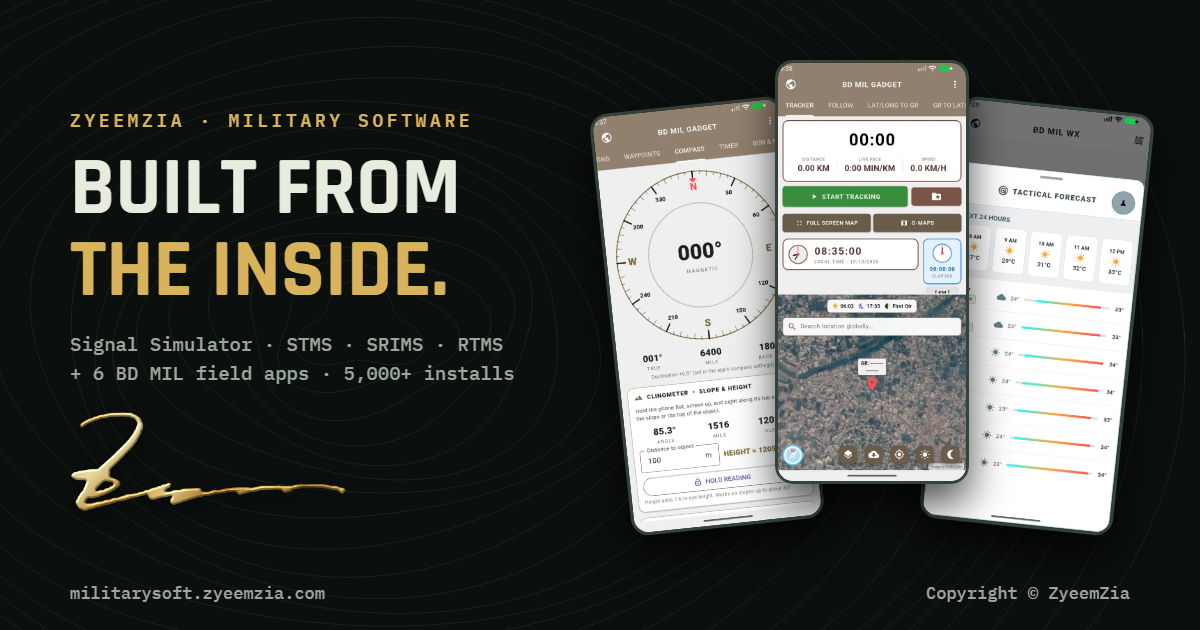
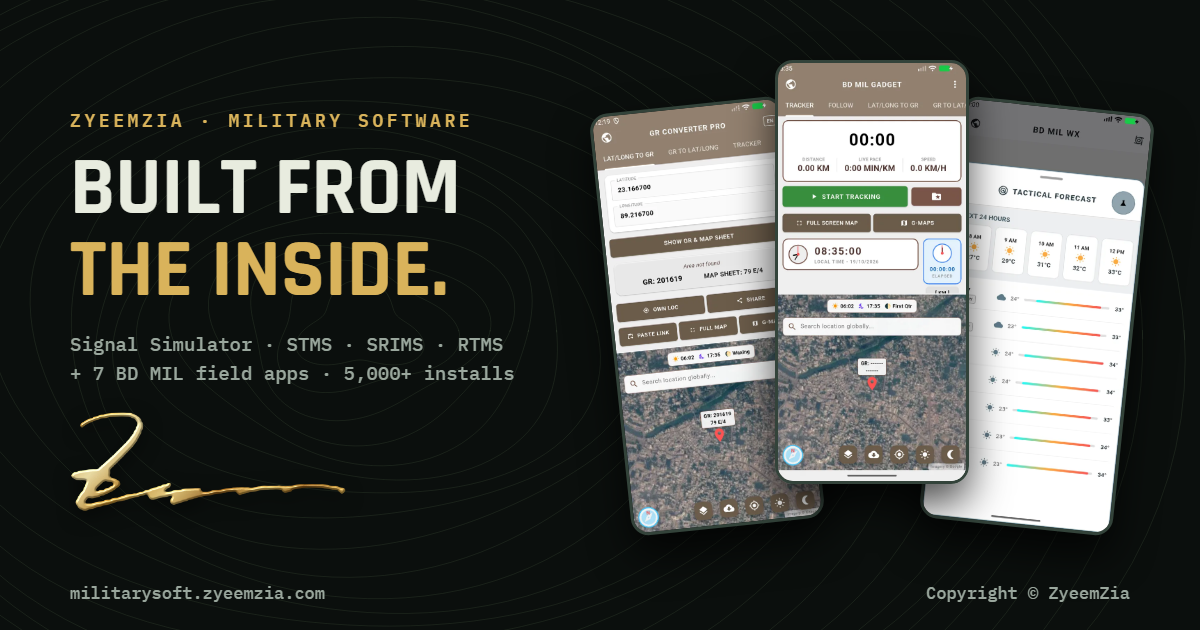
Add BD MIL GR Converter Pro with real screens and toolkit
Copyright © ZyeemZia

Changed region(s): [[0.4933, 0.181, 0.7092, 0.8444], [0.0617, 0.573, 0.0925, 0.6032]]

diff --git a/index.html b/index.html
@@ -4,7 +4,7 @@
 <meta charset="utf-8">
 <meta name="viewport" content="width=device-width, initial-scale=1, viewport-fit=cover">
 <title>ZyeemZia Military Software</title>
-<meta name="description" content="Signal simulation, training management, service records and recruit analytics — plus six offline BD MIL field apps. Works with no internet. Copyright © ZyeemZia.">
+<meta name="description" content="Signal simulation, training management, service records and recruit analytics — plus seven offline BD MIL field apps. Works with no internet. Copyright © ZyeemZia.">
 <meta name="author" content="ZyeemZia">
 <meta name="theme-color" content="#0b0f0d">
 <link rel="canonical" href="https://militarysoft.zyeemzia.com/">
@@ -52,7 +52,7 @@
       <div>
         <div class="eyebrow">Bangladesh military software · Unit systems · Field apps</div>
         <h1>Military software, <em>built from the inside.</em></h1>
-        <p class="lead">Simulate a signal net, run a training year, find any service record in seconds and turn results into decisions — then carry the field kit in your pocket. Four unit systems and six BD MIL apps, all working with no internet.</p>
+        <p class="lead">Simulate a signal net, run a training year, find any service record in seconds and turn results into decisions — then carry the field kit in your pocket. Four unit systems and seven BD MIL apps, all working with no internet.</p>
         <div class="signoff">
           <span class="sign"><img src="img/brand/signature-gold-sm.webp" width="480" height="185" alt="Signature of Zyeem Bin Zia"></span>
           <span class="signoff-rule" aria-hidden="true"></span>
@@ -71,6 +71,7 @@
         <span class="blip desk" style="left:63%;top:38%"><span>STMS</span></span>
         <span class="blip desk" style="left:40%;top:62%"><span>SRIMS</span></span>
         <span class="blip desk" style="left:58%;top:70%"><span>RTMS</span></span>
+        <span class="blip" style="left:20%;top:48%"><span>GR PRO</span></span>
         <span class="blip" style="left:76%;top:22%"><span>ABBR</span></span>
         <span class="blip" style="left:82%;top:56%"><span>GADGET</span></span>
         <span class="blip" style="left:24%;top:78%"><span>MORSE</span></span>
@@ -97,7 +98,7 @@
       <div class="sec-head reveal">
         <div class="serial">SER 02</div>
         <div><h2>BD MIL field apps</h2>
-          <p>Six ad-free tools for the field and the office, installed more than 5,000 times across BD MIL. Free to download from <a href="https://bdmil.zyeemzia.com/" target="_blank" rel="noopener">bdmil.zyeemzia.com</a>.</p></div>
+          <p>Seven ad-free tools for the field and the office, installed more than 5,000 times across BD MIL. Free to download from <a href="https://bdmil.zyeemzia.com/" target="_blank" rel="noopener">bdmil.zyeemzia.com</a>.</p></div>
       </div>
       <div class="apps" id="apps"></div>
     </div>
@@ -133,8 +134,8 @@
 
 <div class="lb" id="lb" role="dialog" aria-modal="true" aria-label="Screenshot viewer" hidden></div>
 
-<script src="data-apps.js?v=8"></script>
-<script src="data-systems.js?v=8"></script>
+<script src="data-apps.js?v=9"></script>
+<script src="data-systems.js?v=9"></script>
 <script src="app.js?v=8"></script>
     <script src="https://zyeemzia.com/transmit.js?v=3" defer></script>
 </body>

diff --git a/data-apps.js b/data-apps.js
@@ -3,6 +3,14 @@
 window.MS = window.MS || {};
 MS.apps = [
   {
+    id: 'grconverter', name: 'BD MIL GR Converter Pro', short: 'Grid & navigation engine', ver: 'v1.3.2',
+    tagline: 'Grid references on BD map sheets, in one tap.',
+    summary: 'Convert Lat/Long to 6-figure GRs on Bangladesh map sheets and back, then track, follow routes, drop waypoints and send a tactical report — on satellite imagery that keeps working offline.',
+    tags: ['Lat/Long ⇄ GR', 'BD map sheets', 'Live tracker', 'Route follow', 'Waypoints & range', 'Tactical report', 'Offline maps'],
+    tools: [['Flutter', 'Cross-platform UI'], ['flutter_map', 'Offline satellite maps'], ['ObjectBox', 'Crash-safe tracking'], ['Geolocator', 'GPS'], ['Sensors', 'Compass'], ['Text-to-speech', 'Route guidance'], ['Share sheet', 'Routes, backup & restore']],
+    shots: [['grcp-01-launch', 'Launch screen'], ['grcp-02-latlong-gr', 'Lat/Long to GR with the BD map sheet, pinned on the map'], ['grcp-03-gr-latlong', 'GR and map sheet back to Lat/Long'], ['grcp-04-tracker', 'Tracker: distance, live pace, speed and time'], ['grcp-05-follow', 'Guided route follow with checkpoint alerts'], ['grcp-06-waypoints', 'Waypoints: save pins, vectors and live target range'], ['grcp-07-report', 'Tactical report with GPS, save and send'], ['grcp-08-full-map', 'Full-screen satellite map with sun and moon times']]
+  },
+  {
     id: 'abbr', name: 'BD MIL ABBR', short: 'Defence dictionary', ver: 'v1.2.0',
     tagline: 'The defence terminology dictionary in your pocket.',
     summary: 'Every defence abbreviation, offline, in one tap — with tactical symbols, flashcards and a text tool that expands a whole paragraph.',

diff --git a/data-systems.js b/data-systems.js
@@ -54,7 +54,7 @@ MS.systems = [
   }
 ];
 
-MS.stats = [['10', 'Military programs'], ['5,000+', 'BD MIL installs (est.)'], ['2,651', 'Defence terms on hand'], ['34×', 'Faster records reports'], ['0', 'Internet needed']];
+MS.stats = [['11', 'Military programs'], ['5,000+', 'BD MIL installs (est.)'], ['2,651', 'Defence terms on hand'], ['34×', 'Faster records reports'], ['0', 'Internet needed']];
 
 MS.glance = [
   ['offline', 'Works with no network', 'Every system and app keeps working in the field, the office or a dead zone.'],
